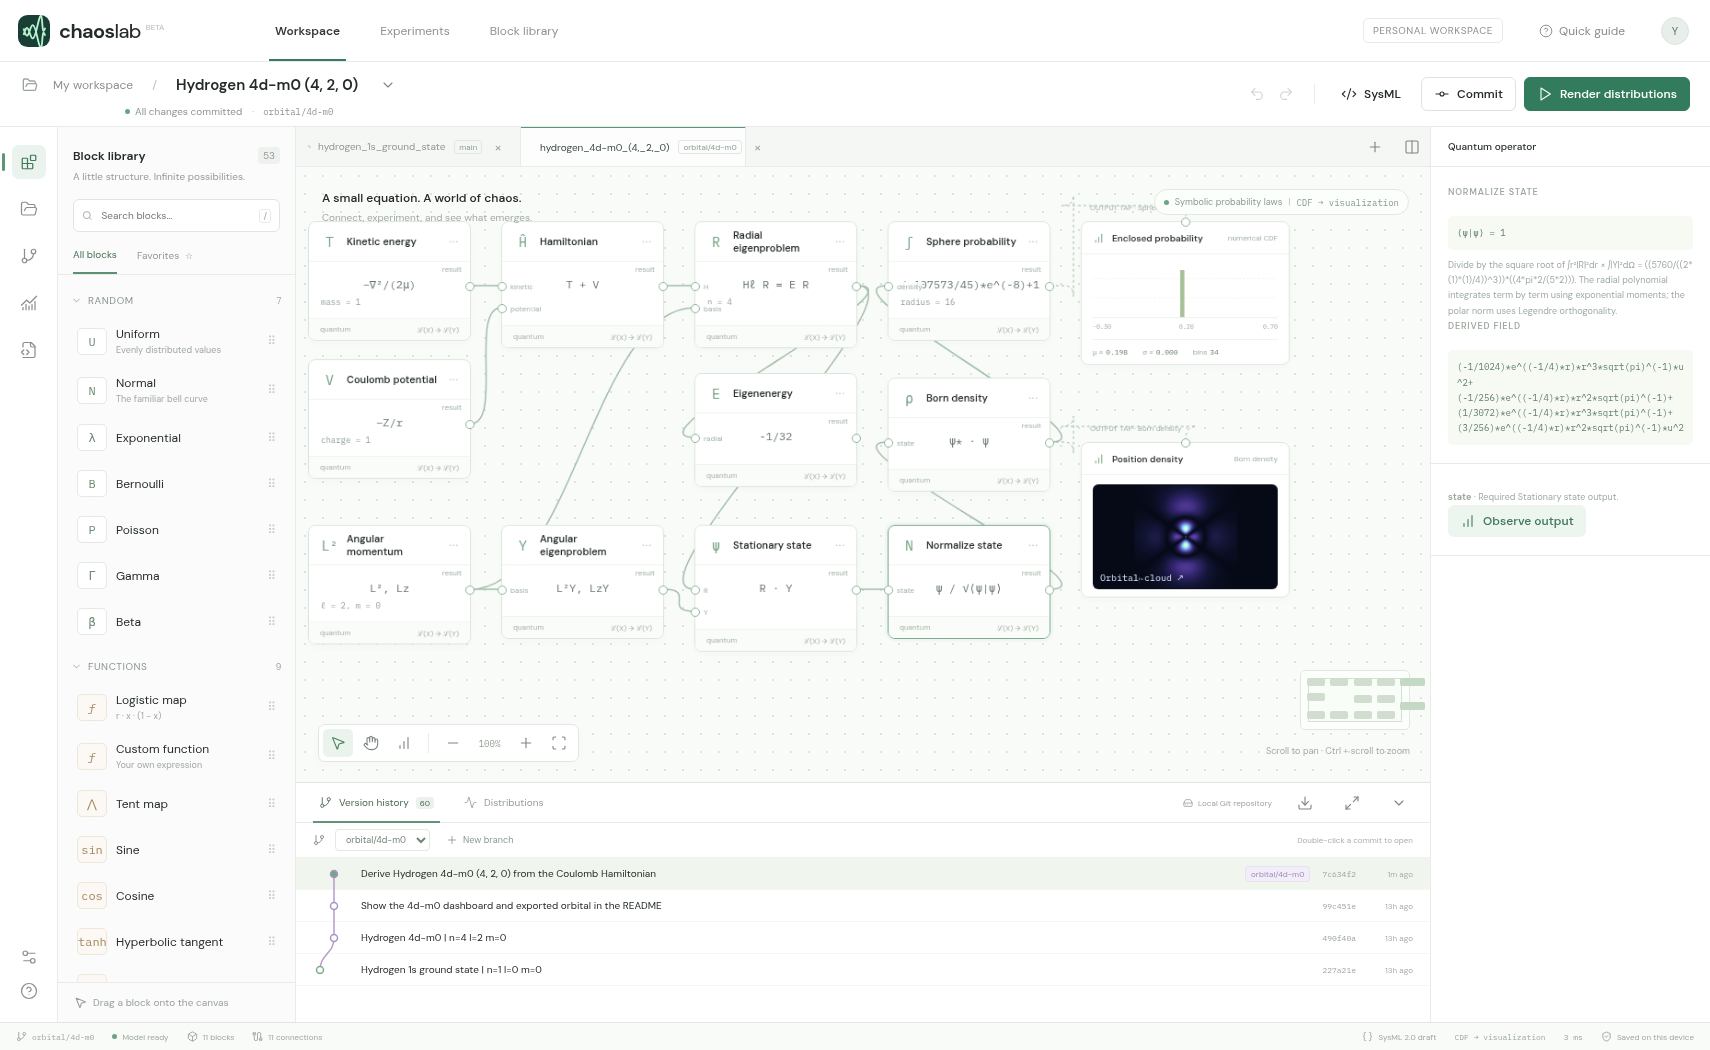
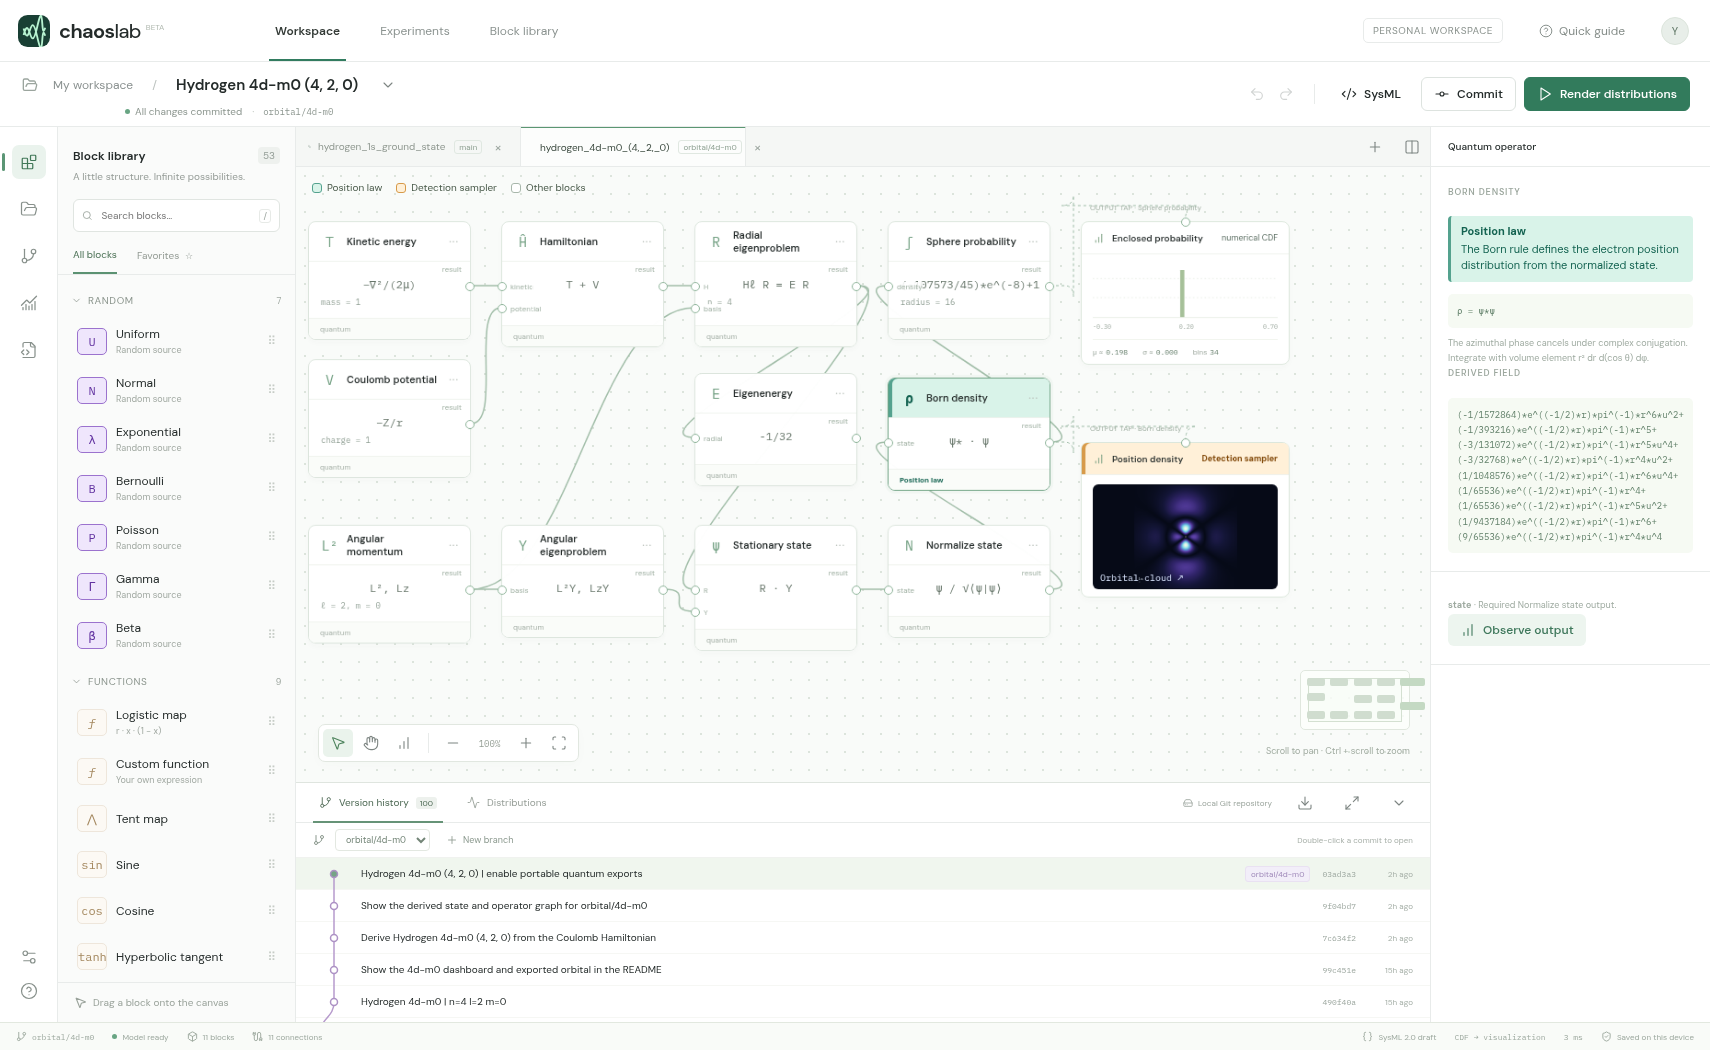
Hydrogen 4d-m0 (4, 2, 0) | identify the position law and detection sampler

diff --git a/studio.py b/studio.py
@@ -10,7 +10,7 @@ import tempfile
 import webbrowser
 
 ROOT = Path(__file__).resolve().parent
-STUDIO_REV = "1cc30c5632f1fe1f79a11ab6730f82c36a6c01e4"
+STUDIO_REV = "8657d6ecd3aa33a5a28f43219d5d6bfb8aa3edcc"
 STUDIO_REPO = "https://github.com/wa200508/chaos_lab.git"
 
 

diff --git a/README.md b/README.md
@@ -6,6 +6,8 @@ Open **Version history** in Chaos Lab to explore the 20 hydrogen designs in this
 
 The connected Hamiltonian and eigenstate solvers give $E=-1/32$ Hartree for this state.
 
+On the canvas, teal **Position law** marks where the Born rule defines the distribution of electron positions. Amber **Detection sampler** marks the tap that draws positions for the projected cloud. The central slice evaluates the density directly.
+
 ![Chaos Lab dashboard with the 4d model, m = 0, open in version history](dashboard.png)
 
 Radial nodes: 1. Polar nodes: 2. Plot half-width: 32 Bohr radii.
